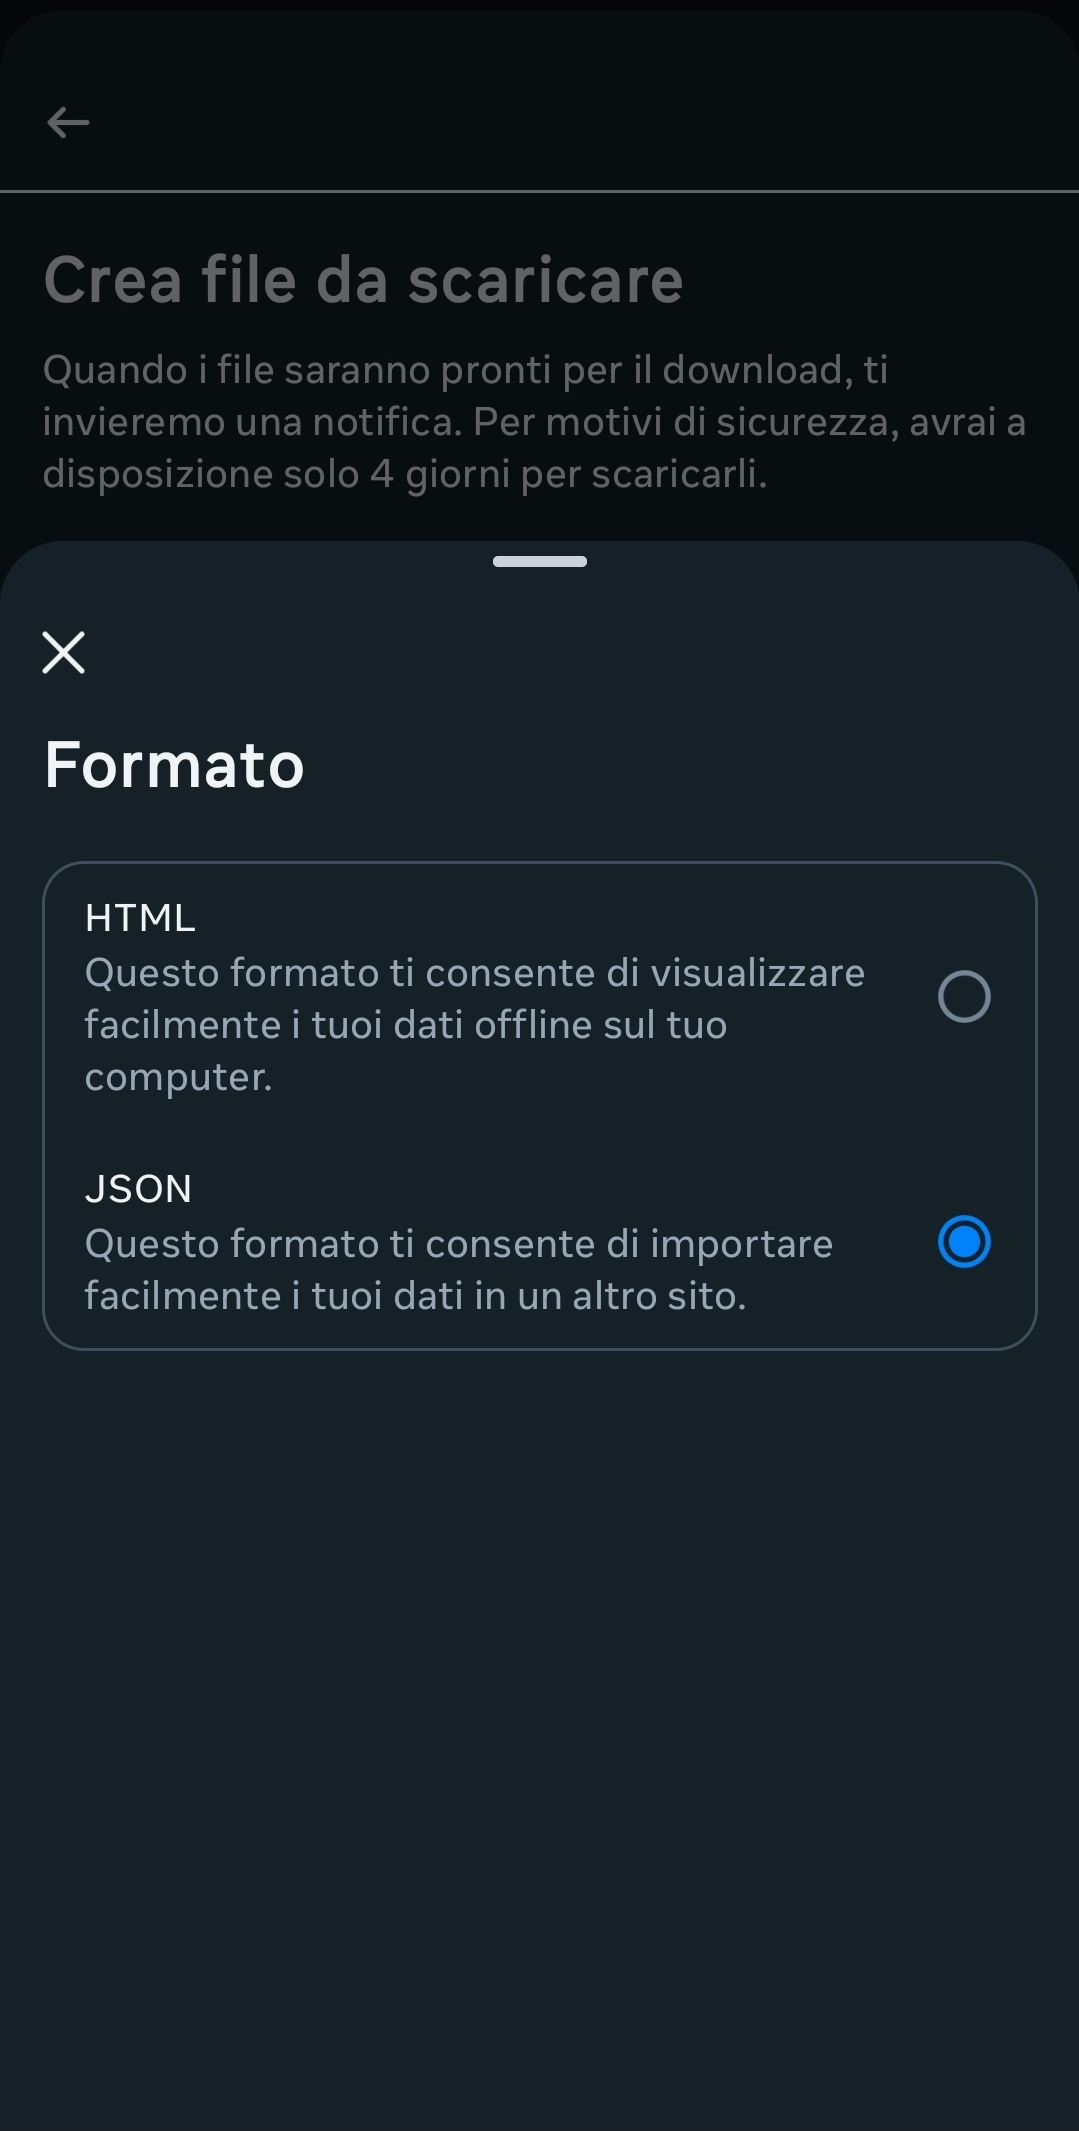
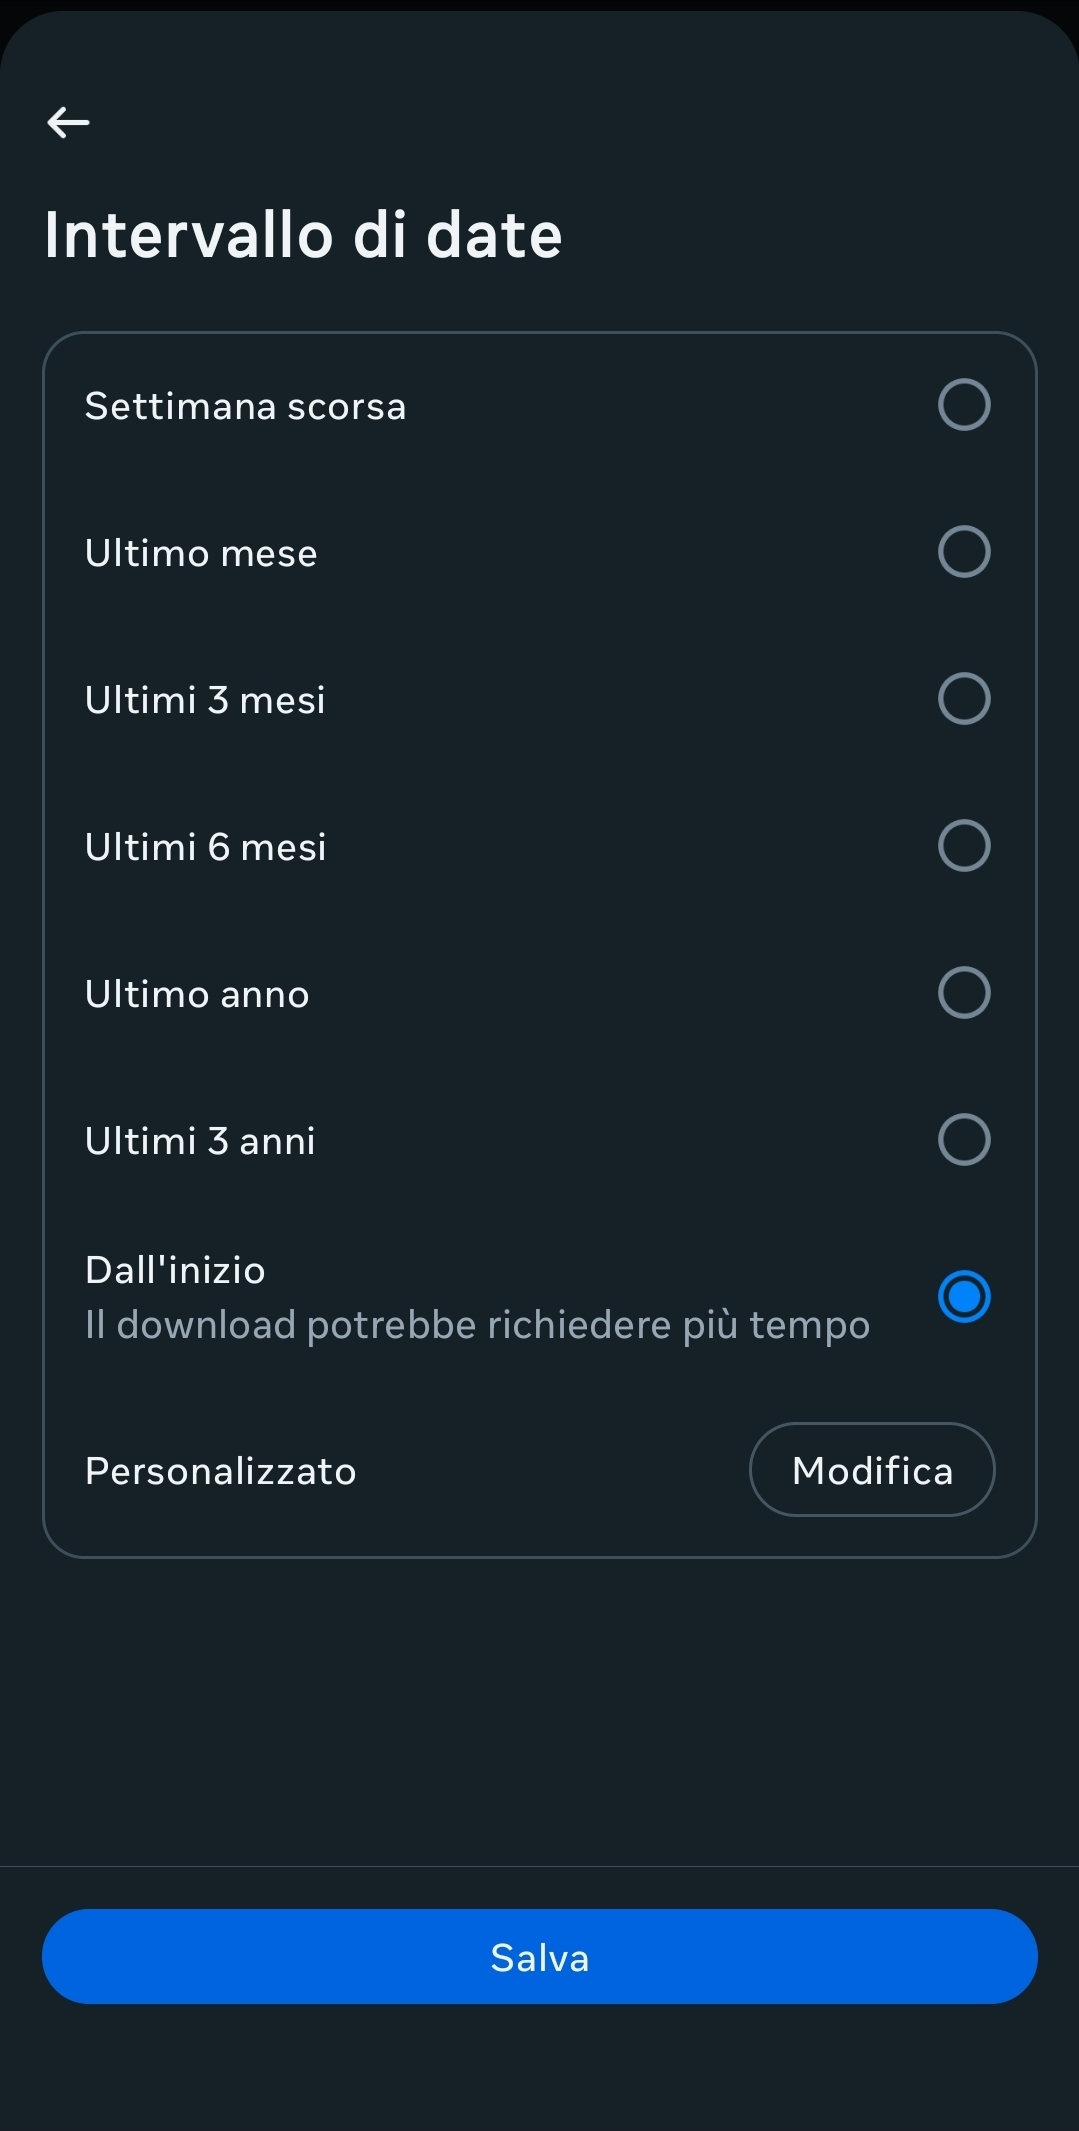
improvements

diff --git a/src/views/Homepage/Homepage.tsx b/src/views/Homepage/Homepage.tsx
@@ -8,8 +8,9 @@ import {
   Tabs,
   Tab,
 } from '@mui/material';
-import FormatListBulletedIcon from '@mui/icons-material/FormatListBulleted';
+import FolderZipIcon from '@mui/icons-material/FolderZip';
 import RocketLaunchIcon from '@mui/icons-material/RocketLaunch';
+import HelpIcon from '@mui/icons-material/Help';
 import { Uploader, DlgTutorial } from './components';
 
 const Homepage: React.FC = () => {
@@ -30,14 +31,32 @@ const Homepage: React.FC = () => {
 
       <Box sx={{ p: 2 }}>
         <Grid container spacing={2}>
+
+          {/* Bottone "Dove li trovo?" */}
+          <Grid size={{ md: 3, lg: 1, xl: 2 }} sx={{ display: { xs: 'none', lg: 'block' } }} />
+          <Grid size={{ xs: 12, md: 6, lg: 10, xl: 8 }}>
+            <Box sx={{ display: 'flex', alignItems: 'center' }}>
+              <Typography variant="h5" sx={{ pb: 2 }}>
+                1 - LEGGI IL TUTORIAL E RECUPERA I DATI
+              </Typography>
+            </Box>
+            <Box sx={{ display: 'flex', justifyContent: 'center' }}>
+              <Button fullWidth startIcon={<HelpIcon />} variant="outlined" size="large" onClick={() => setModalOpen(true)}>
+                Spiegami tutto
+              </Button>
+            </Box>
+          </Grid>
+          <Grid size={{ md: 3, lg: 1, xl: 2 }} sx={{ display: { xs: 'none', lg: 'block' } }} />
+
+
           <Grid size={{ md: 3, lg: 1, xl: 2 }} sx={{ display: { xs: 'none', lg: 'block' } }} />
           {/* Titolo: 1 - CARICA LE LISTE */}
           <Grid size={{ xs: 12, md: 6, lg: 5, xl: 4 }}>
             <Box sx={{ display: 'flex', alignItems: 'center' }}>
               <Typography variant="h5" sx={{ mr: 1 }}>
-                1 - CARICA I TUOI DATI {context.enableJsonFiles === true && <> O LE LISTE</>}
+                2 - CARICA I TUOI DATI {context.enableJsonFiles === true && <> O LE LISTE</>}
               </Typography>
-              <FormatListBulletedIcon color="primary" />
+              <FolderZipIcon color="primary" />
             </Box>
           </Grid>
           <Grid size={{ xs: 12, md: 6, lg: 5, xl: 4 }}>
@@ -54,21 +73,12 @@ const Homepage: React.FC = () => {
 
           <Uploader key={`uploader_${context.uploaderETag}`} />
 
-          {/* Bottone "Dove li trovo?" */}
-          <Grid size={{ xs: 12 }}>
-            <Box sx={{ display: 'flex', justifyContent: 'center' }}>
-              <Button variant="outlined" size="large" onClick={() => setModalOpen(true)}>
-                Spiegami tutto
-              </Button>
-            </Box>
-          </Grid>
-
           {/* Titolo: 2 - ESEGUI */}
           <Grid size={{ md: 3, lg: 1, xl: 2 }} sx={{ display: { xs: 'none', lg: 'block' } }} />
           <Grid size={{ xs: 12, md: 6, lg: 10, xl: 8 }}>
             <Box sx={{ display: 'flex', alignItems: 'center' }}>
               <Typography variant="h5" sx={{ mr: 1 }}>
-                2 - ESEGUI
+                3 - ESEGUI L'ANALISI
               </Typography>
               <RocketLaunchIcon color="primary" />
             </Box>
@@ -76,22 +86,33 @@ const Homepage: React.FC = () => {
           <Grid size={{ md: 3, lg: 1, xl: 2 }} sx={{ display: { xs: 'none', lg: 'block' } }} />
 
           {/* Bottone "ANDIAMO!" */}
-          <Grid size={{ xs: 12 }}>
+          <Grid size={{ md: 3, lg: 1, xl: 2 }} sx={{ display: { xs: 'none', lg: 'block' } }} />
+          <Grid size={{ xs: 12, md: 6, lg: 10, xl: 8 }}>
             <Box sx={{ display: 'flex', justifyContent: 'center' }}>
-              <Button variant="contained" size="large" onClick={() => context.analyzeData()}>
+              <Button
+                fullWidth
+                variant="contained"
+                size="large"
+                startIcon={<RocketLaunchIcon />}
+                onClick={() => context.analyzeData()}
+              >
                 ANDIAMO!
               </Button>
             </Box>
           </Grid>
+          <Grid size={{ md: 3, lg: 1, xl: 2 }} sx={{ display: { xs: 'none', lg: 'block' } }} />
 
           {/* Bottone testo "oppure, ricominciamo" */}
-          <Grid size={{ xs: 12 }}>
+          <Grid size={{ md: 3, lg: 1, xl: 2 }} sx={{ display: { xs: 'none', lg: 'block' } }} />
+          <Grid size={{ xs: 12, md: 6, lg: 10, xl: 8 }}>
             <Box sx={{ display: 'flex', justifyContent: 'center' }}>
-              <Button variant="text" size="medium" onClick={() => context.resetForm()}>
+              <Button fullWidth variant="text" size="medium" onClick={() => context.resetForm()}>
                 oppure, ricominciamo
               </Button>
             </Box>
           </Grid>
+          <Grid size={{ md: 3, lg: 1, xl: 2 }} sx={{ display: { xs: 'none', lg: 'block' } }} />
+
         </Grid>
       </Box>
     </>

diff --git a/src/views/Homepage/components/Tutorial.tsx b/src/views/Homepage/components/Tutorial.tsx
@@ -35,7 +35,7 @@ const TutorialModal: React.FC<Props> = ({ open, onClose }) => {
   const steps: IStep[] = [
     {
       number: '1.',
-      text: 'Fai click sul tasto "menu" (📑) in alto a sinistra sulla pagina del tuo profilo Instagram',
+      text: 'Fai click sul tasto "menu" in alto a sinistra sulla pagina del tuo profilo Instagram',
       image: '/assets/tutorial/1.jpg',
       imageAlt: 'Step 1',
     },
@@ -96,21 +96,22 @@ const TutorialModal: React.FC<Props> = ({ open, onClose }) => {
     },
     {
       number: '10. (IMPORTANTE)',
-      text: 'Seleziona "JSON" e fai click su "X"',
-      image: '/assets/tutorial/10.jpg',
+      text: 'Seleziona "Dall\'inizio" come "Intervallo di date"',
+      image: '/assets/tutorial/12.jpg',
       imageAlt: 'Step 10',
-      highlight: true,
+      highlight: true
     },
     {
-      number: '11.',
-      text: 'Opzionale ma può velocizzare il download: seleziona "Bassa" come "Qualità dei contenuti multimediali"',
-      image: '/assets/tutorial/11.jpg',
+      number: '11. (IMPORTANTE)',
+      text: 'Seleziona "JSON" e fai click su "X"',
+      image: '/assets/tutorial/10.jpg',
       imageAlt: 'Step 11',
+      highlight: true
     },
     {
       number: '12.',
-      text: 'Opzionale, per la prima esecuzione seleziona "Dall\'inizio" come "Intervallo di date"',
-      image: '/assets/tutorial/12.jpg',
+      text: 'Opzionale ma può velocizzare il download: seleziona "Bassa" come "Qualità dei contenuti multimediali"',
+      image: '/assets/tutorial/11.jpg',
       imageAlt: 'Step 12',
     },
     {
@@ -127,7 +128,7 @@ const TutorialModal: React.FC<Props> = ({ open, onClose }) => {
     },
     {
       number: 'ATTENDERE 🕑',
-      text: 'Esatto: attendere pazientemente che Meta elabori i dati. Di solito è abbastanza veloce, ma nel frattempo puoi sempre uscire per un aperitivo (o giocare con il gatto, che ne so).',
+      text: 'Esatto: attendere pazientemente che Meta elabori i dati. Potrebbe metterci un po\', ma nel frattempo puoi sempre uscire per un aperitivo (o giocare con il gatto, che ne so).',
       image: '/assets/images/wait.svg',
       imageAlt: 'Step 15',
       fullWidth: true,
@@ -184,7 +185,7 @@ const TutorialModal: React.FC<Props> = ({ open, onClose }) => {
               e...si, purtroppo è l'unico modo per non essere bannati da Meta: triste ma vero.
             </Typography>
             <Typography variant="body1" color="textPrimary" gutterBottom sx={{ textAlign: 'center' }}>
-              Ah, prima di cominciare, ricorda: <b>FAI ATTENZIONE ALLO STEP 10</b>. Mi raccomando! 😁
+              Ah, prima di iniziare, ricorda: <b>FAI ATTENZIONE AGLI STEP 10 e 11</b>. Mi raccomando! 😁
             </Typography>
           </Grid>
 

diff --git a/src/components/ApplicationRoute/components/RoutingList.tsx b/src/components/ApplicationRoute/components/RoutingList.tsx
@@ -2,19 +2,36 @@ import { List, ListItemButton, ListItemIcon, ListItemText } from '@mui/material'
 import HomeIcon from '@mui/icons-material/Home';
 import SettingsIcon from '@mui/icons-material/Settings';
 import { useNavigate } from 'react-router-dom';
+import { useGlobalCleanup } from '../../../shared/antisgam-cleanup/AntisgamCleanup';
+import type { JSX } from 'react';
+
+interface IRouteMenuItem {
+    label: string;
+    path: string;
+    icon: JSX.Element;
+    shouldCleanupState: boolean;
+}
 
 const RoutingList = () => {
     const navigate = useNavigate();
+    const cleanup = useGlobalCleanup();
 
-    const routes = [
-        { label: 'Antisgam', icon: <HomeIcon color="primary" />, path: '/' },
-        { label: 'Impostazioni', icon: <SettingsIcon color="primary" />, path: '/settings' },
+    const routes: IRouteMenuItem[] = [
+        { label: 'Antisgam', icon: <HomeIcon color="primary" />, path: '/', shouldCleanupState: true },
+        { label: 'Impostazioni', icon: <SettingsIcon color="primary" />, path: '/settings', shouldCleanupState: true },
     ];
+
+    const routeClickHandler = (path: string, shouldCleanupState: boolean) => {
+        if (shouldCleanupState === true)
+            cleanup();
+        
+        navigate(path);
+    }
 
     return (
         <List>
-            {routes.map(({ label, icon, path }, index) => (
-                <ListItemButton key={index} onClick={() => navigate(path)}>
+            {(routes ?? []).map(({ label, icon, path, shouldCleanupState }, index) => (
+                <ListItemButton key={index} onClick={() => routeClickHandler(path, shouldCleanupState)}>
                     <ListItemIcon>{icon}</ListItemIcon>
                     <ListItemText primary={label} />
                 </ListItemButton>

diff --git a/src/views/Results/Results.tsx b/src/views/Results/Results.tsx
@@ -46,7 +46,7 @@ const Results: React.FC = () => {
               ECCO CHI HA SMESSO DI SEGUIRTI
             </Typography>
             <Typography variant="subtitle1" color="text.secondary" gutterBottom>
-              Ora va e vendicati, ma occhio ai <Button variant="text" size="small" onClick={() => setModalOpen(true)}> limiti di Instagram </Button>
+              Ora va e vendicati, ma fai attenzione ai <Button variant="outlined" size="small" onClick={() => setModalOpen(true)}> limiti di Instagram </Button>
             </Typography>
           </Grid>
           <Grid size={{ md: 3, lg: 1, xl: 2 }} sx={{ display: { xs: 'none', lg: 'block' } }} />
@@ -85,7 +85,7 @@ const Results: React.FC = () => {
                 >
                   <CelebrationIcon color="primary" sx={{ fontSize: 48 }} />
                   <Typography variant="h5" mt={2}>
-                    Nessuno ti ha unfollowato, grande!
+                    Nessuno ti ha unfollowato, ottimo!
                   </Typography>
                 </Box>
               )}
@@ -162,6 +162,7 @@ const Results: React.FC = () => {
                   <Button
                     variant="outlined"
                     startIcon={<ContentCopyIcon />}
+                    fullWidth
                     onClick={() => copyToClipboard('pending')}
                   >
                     Copia
@@ -202,6 +203,7 @@ const Results: React.FC = () => {
                 <Box sx={{ display: 'flex', justifyContent: 'center' }}>
                   <Button
                     variant="outlined"
+                    fullWidth
                     startIcon={<ContentCopyIcon />}
                     onClick={() => copyToClipboard('suggestions')}
                   >

diff --git a/src/views/Homepage/HomepageProvider.tsx b/src/views/Homepage/HomepageProvider.tsx
@@ -148,7 +148,7 @@ const HomepageProvider: React.FC<Props> = ({ children }) => {
 
     if (pendingFollowRequestsFiles?.length <= 0) {
       // console.error('Nessun file pending follow requests trovato nello zip.');
-      enqueueSnackbar('WARNING: Nessun file json "pending follow requests" trovato nello zip: l\'analisi finale non restituirà questa informazione', { variant: 'warning' });
+      enqueueSnackbar('AVVISO: Nessuna informazione sulle "Richieste Inviate" trovata: l\'analisi finale non restituirà questa informazione', { variant: 'warning' });
     }
 
     // Recupero tutti i files "removed_suggestions * .json"
@@ -164,7 +164,7 @@ const HomepageProvider: React.FC<Props> = ({ children }) => {
 
     if (removedSuggestionsFiles?.length <= 0) {
       // console.error('Nessun file removed suggestions trovato nello zip.');
-      enqueueSnackbar('WARNING: Nessun file json "removed suggestions" trovato nello zip: l\'analisi finale non restituirà questa informazione', { variant: 'warning' });
+      enqueueSnackbar('AVVISO: Nessuna informazione sui "Suggerimenti Rimossi" trovata: l\'analisi finale non restituirà questa informazione', { variant: 'warning' });
     }
 
     // Estraggo il contenuto JSON dei file

diff --git a/src/components/AppToolbar/AppToolbarProvider.tsx b/src/components/AppToolbar/AppToolbarProvider.tsx
@@ -4,6 +4,7 @@ import { AppToolbarContext } from './AppToolbarContext';
 import { useDispatch } from 'react-redux';
 import { toggleDrawer } from '../SideDrawer/store/drawer-slice';
 import { useNavigate } from 'react-router-dom';
+import { useGlobalCleanup } from '../../shared/antisgam-cleanup/AntisgamCleanup';
 
 interface Props {
   children: ReactNode;
@@ -13,12 +14,15 @@ const AppToolbarProvider: React.FC<Props> = ({ children }) => {
   const [title] = useState('ANTISGAM');
   const dispatch = useDispatch();
   const navigate = useNavigate();
+  const cleanup = useGlobalCleanup();
 
   const menuClickHandler = () => {
     dispatch(toggleDrawer());
   };
 
   const navigateToHomepage = () => {
+    cleanup();
+    
     navigate('/');
   };
 

diff --git a/src/views/LoadingScreen/LoadingScreenProvider.tsx b/src/views/LoadingScreen/LoadingScreenProvider.tsx
@@ -31,7 +31,7 @@ const LoadingScreenProvider: React.FC<Props> = ({ children }) => {
     'The alla pesca o the al limone?',
     'Un caricamento non è mai in ritardo, Frodo Baggins, né in anticipo: termina esattamente quando intende farlo',
     'Se il caricamento sembra infinito, probabilmente lo è davvero',
-    'Sto facendo cose...',
+    'Sapevi che queste frasi sono randomiche? Torna qui spesso per vederne altre!',
     'Un caricamento è come una storia: ha un inizio, uno sviluppo e forse pure una conclusione',
     'Questo caricamento è un po\' come quando incroci il vicino di casa in ascensore: aspettiamo in silenzio, ok?',
     'Lo sapevi che le formiche sono immuni al danno da caduta?',
